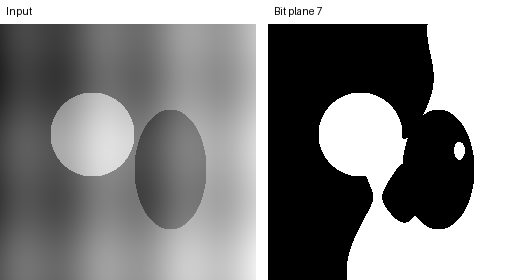
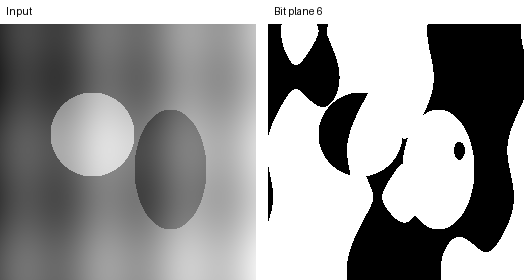
Use bit plane 6 for a distinct result

diff --git a/examples/06_bit_plane_slicing.py b/examples/06_bit_plane_slicing.py
@@ -2,6 +2,6 @@ from common import make_gray_sample, save_comparison, print_saved
 
 
 img = make_gray_sample()
-bit = 7
+bit = 6
 out = ((img >> bit) & 1) * 255
-print_saved(save_comparison(img, out, "06_bit_plane_slicing.png", "Input", "Bit plane 7"))
+print_saved(save_comparison(img, out, "06_bit_plane_slicing.png", "Input", "Bit plane 6"))
